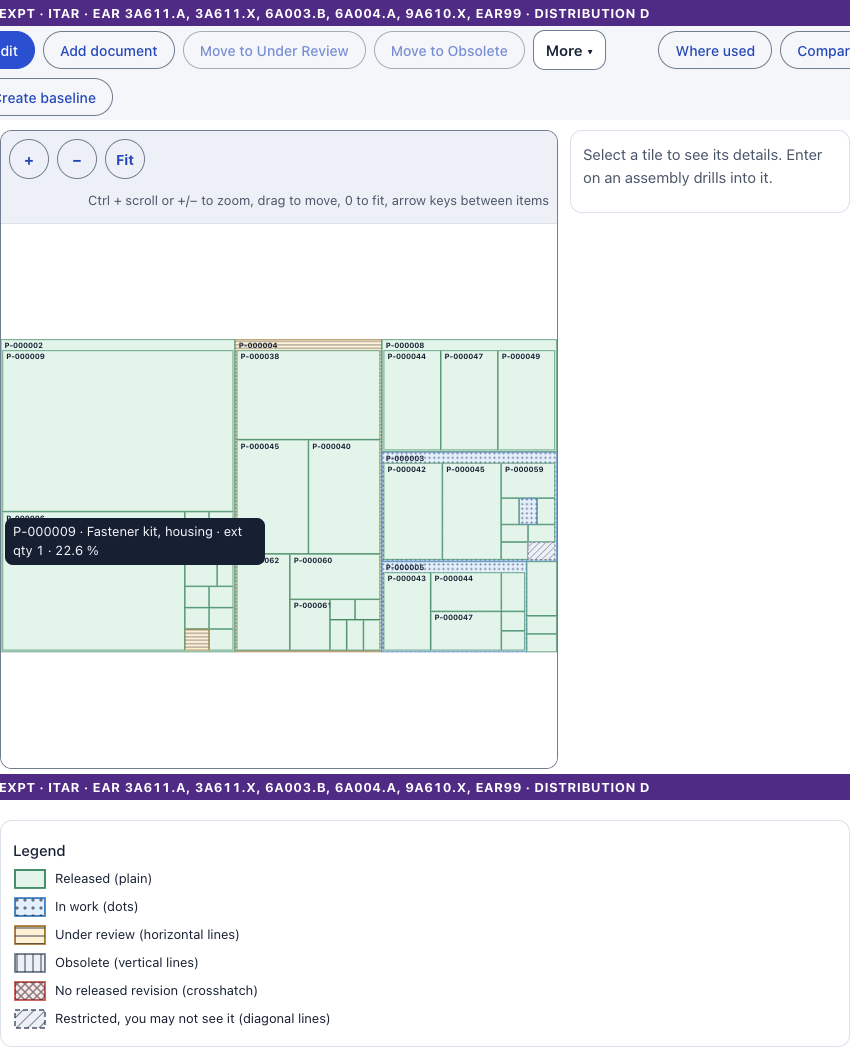
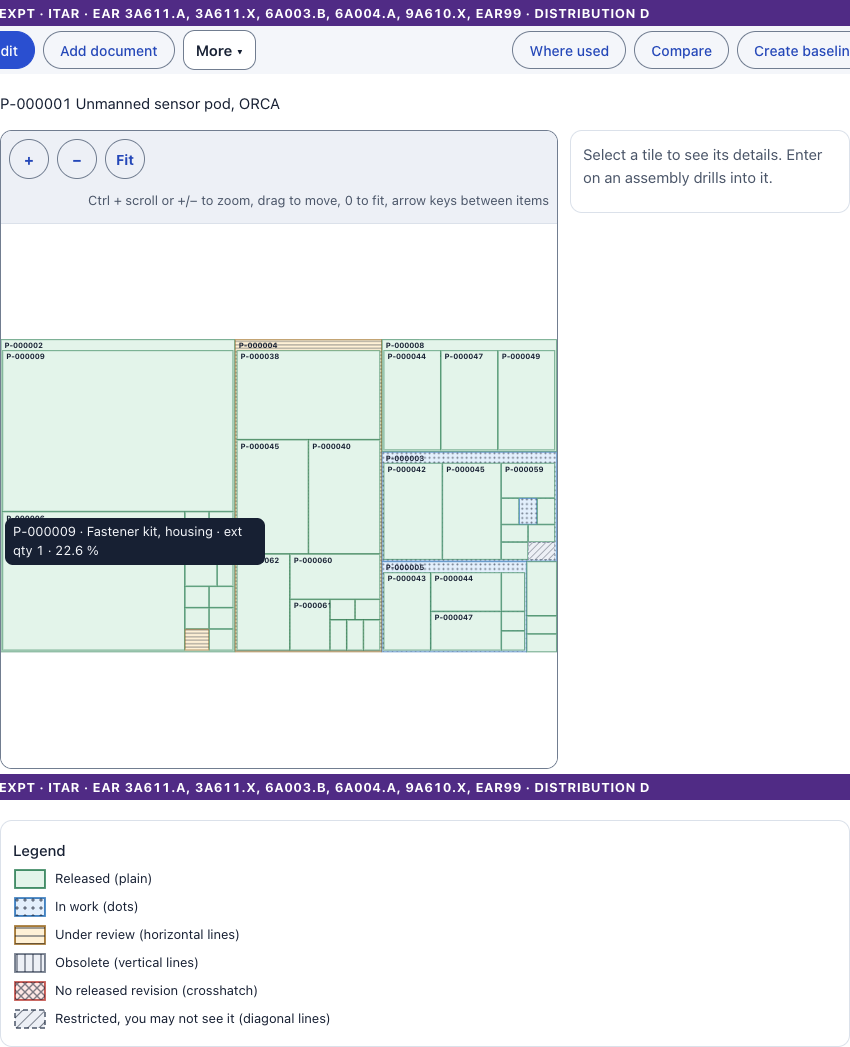
Documents edit like parts: Edit, Save and Discard changes instead of check-out wording

Changed region(s): [[0.4588, 0.0306, 1.0, 0.0611], [0.0, 0.0917, 0.3365, 0.1223], [0.2141, 0.0306, 0.4282, 0.0611]]

diff --git a/tests/Keel.E2E/SimplifyFlowsTests.cs b/tests/Keel.E2E/SimplifyFlowsTests.cs
@@ -1,4 +1,5 @@
 using System.Text.RegularExpressions;
+using Keel.Seed;
 using Keel.TestSupport;
 using Microsoft.Playwright;
 using Npgsql;
@@ -139,6 +140,46 @@ public sealed class SimplifyFlowsTests(E2EFixture fx)
             await BrowserSession.OpenMoreAsync(page);
             await Expect(page.GetByRole(AriaRole.Button, new PageGetByRoleOptions { Name = "Check out", Exact = true })).ToBeVisibleAsync();
             Assert.False(string.IsNullOrEmpty(part));
+        });
+    }
+
+    [E2EFact]
+    public async Task A_document_is_edited_with_Edit_then_Save_and_Discard_undoes_it()
+    {
+        await using var session = new BrowserSession(fx, nameof(A_document_is_edited_with_Edit_then_Save_and_Discard_undoes_it));
+        await session.RunAsync(async () =>
+        {
+            var alice = await session.SignInAsync("alice");
+            var page = alice.Page;
+            var suffix = Guid.NewGuid().ToString("N")[..6];
+            await session.GotoAsync(alice, "/documents/new");
+            await BrowserSession.FillAsync(page.GetByLabel("Name *"), $"E2E simple doc {suffix}");
+            var pdf = Path.Combine(Path.GetTempPath(), $"e2e-simple-{suffix}.pdf");
+            await File.WriteAllBytesAsync(pdf, SyntheticPdf.Create("E2E simple doc", ["Synthetic."]));
+            await page.Locator("input[type=file]").SetInputFilesAsync(pdf);
+            await BrowserSession.ClickAsync(page, "Create document");
+            await page.WaitForURLAsync(DocumentUrl, new PageWaitForURLOptions { Timeout = 60_000 });
+
+            // Edit, change the description, Save: a new version, no check-out wording.
+            await BrowserSession.ClickAsync(page, "Edit", exact: true);
+            await Expect(page.GetByText("You are editing this document")).ToBeVisibleAsync();
+            await BrowserSession.FillAsync(page.GetByLabel("Description"), "Sheet 2 added.");
+            await BrowserSession.FillAsync(page.GetByLabel("Change note"), "Added sheet 2");
+            await BrowserSession.ClickAsync(page, "Save", exact: true);
+            await Expect(page.Locator("[data-toast=success]").Last).ToContainTextAsync("Saved as a new version");
+            await Expect(page.GetByText("Sheet 2 added.")).ToBeVisibleAsync();
+            await Expect(page.GetByText("You are editing this document")).ToHaveCountAsync(0);
+
+            // Discard asks first, then returns to the last saved version.
+            await BrowserSession.ClickAsync(page, "Edit", exact: true);
+            await BrowserSession.FillAsync(page.GetByLabel("Description"), "Throw this away.");
+            await BrowserSession.ClickAsync(page, "Discard changes", exact: true);
+            var dialog = page.GetByRole(AriaRole.Dialog, new PageGetByRoleOptions { Name = "Discard your changes?" });
+            await Expect(dialog).ToBeVisibleAsync();
+            await dialog.GetByRole(AriaRole.Button, new LocatorGetByRoleOptions { Name = "Discard changes" }).ClickAsync();
+            await Expect(page.Locator("[data-toast=success]").Last).ToContainTextAsync("Changes discarded");
+            await Expect(page.GetByText("Throw this away.")).ToHaveCountAsync(0);
+            await Expect(page.GetByText("Sheet 2 added.")).ToBeVisibleAsync();
         });
     }
 

diff --git a/tests/Keel.E2E/ModelVersionTests.cs b/tests/Keel.E2E/ModelVersionTests.cs
@@ -180,10 +180,10 @@ public sealed class ModelVersionTests(E2EFixture fx)
             await Expect(page.Locator("tr[data-version='A.2']")).ToContainTextAsync("triangles");
             await BrowserSession.AssertBannersAsync(page);
 
-            // --- no stray check-out: the Overview tab offers "Check out" (it would say "Checked out by" otherwise)
+            // --- no stray edit: the page offers Edit (it would say "Being edited by" otherwise)
             await session.GotoAsync(alice, $"/documents/{number}");
-            await Expect(page.GetByRole(AriaRole.Button, new PageGetByRoleOptions { Name = "Check out" })).ToBeVisibleAsync();
-            await Expect(page.GetByText("Checked out by")).ToHaveCountAsync(0);
+            await Expect(page.GetByRole(AriaRole.Button, new PageGetByRoleOptions { Name = "Edit", Exact = true })).ToBeVisibleAsync();
+            await Expect(page.GetByText("Being edited by")).ToHaveCountAsync(0);
 
             // --- the same content again is refused with a clear message and creates nothing
             await OpenVersionsAsync(session, alice, number);

diff --git a/tests/Keel.E2E/GapCTests.cs b/tests/Keel.E2E/GapCTests.cs
@@ -41,7 +41,7 @@ public sealed partial class GapCTests(E2EFixture fx)
             await BrowserSession.ClickAsync(page, "Start review");
             await Expect(page.GetByText("Review in progress")).ToBeVisibleAsync();
             await Expect(page.Locator(".badges")).ToContainTextAsync("Under Review");
-            await Expect(page.GetByRole(AriaRole.Button, new PageGetByRoleOptions { Name = "Check out", Exact = true })).ToHaveCountAsync(0);
+            await Expect(page.GetByRole(AriaRole.Button, new PageGetByRoleOptions { Name = "Edit", Exact = true })).ToHaveCountAsync(0);
             await BrowserSession.AssertBannersAsync(page);
 
             // The task points back at the document, and both signatures need a step-up.

diff --git a/docs/increments/9.7-seamless-flows.md b/docs/increments/9.7-seamless-flows.md
@@ -10,6 +10,7 @@ No migration, no new permissions. Every change calls the same services as before
 - **Home.** Part search box, create actions above the tiles (adds New baseline), "Review and sign" on attention items that are tasks, phone layout without the intro paragraph.
 - **Part and document pages.** Only allowed lifecycle moves are buttons; the reasons others are blocked sit in a quiet "Why can't I move it to another state?" line. Request change (ECN, released parts) and Create baseline are links in the header. After adding a document the Documents tab opens. The link type in Add document is folded away.
 - **Forms.** New change explains ECR vs ECN with a switch link that keeps `?part=`; priority, class and reason are under More details (markings stay visible). New baseline folds milestone and configuration under More options.
+- **Documents edit like parts.** Edit, Save (with a change note) and Discard changes replace Check out, Check in and Undo check-out; Save draft sits under More. The same `DocumentService` calls run behind them.
 - **Layout fixes.** Checkbox rows in forms sit on one line; list cards have row styles; the phone stepper has no connectors.
 
 ## Tests
@@ -18,7 +19,6 @@ No migration, no new permissions. Every change calls the same services as before
 
 ## Known gaps
 
-- Documents still use Check out where parts have one-step Edit.
 - The part header is tall on a narrow screen (watch-level dropdown inline).
 - Dark and high-contrast screenshots were not checked by eye; the second-user signing flow was only tested by E2E.
 - The "Unknown change type" flash seen once on first load was not reproduced.

diff --git a/docs/manual/05-documents-and-vault.md b/docs/manual/05-documents-and-vault.md
@@ -21,9 +21,11 @@ Tabs: **Overview** (files, type badges, linked parts), **Versions**, **Used by**
 
 ### Work on files
 
-1. **Check out**, then upload files. The primary file replaces the primary; other files are attachments. File names are unique within a document, ignoring case.
-2. **Check in** creates the next iteration. Bytes are not copied: iterations point to the same vault objects.
-3. **Undo check-out** discards your changes.
+1. **Edit** starts a private working copy. Change the description and upload files: the primary file replaces the primary; other files are attachments. File names are unique within a document, ignoring case.
+2. **Save** (with an optional change note) makes the next version. Bytes are not copied: versions point to the same vault objects. Under **More**, **Save draft** keeps what you have so far without making a version.
+3. **Discard changes** asks first, then throws your edits away and returns to the last saved version.
+
+Behind the buttons this is still check-out, check-in and undo check-out, with the same locks, history and audit; the API and the CAD connector use those names.
 
 ### View a file in the browser
 
